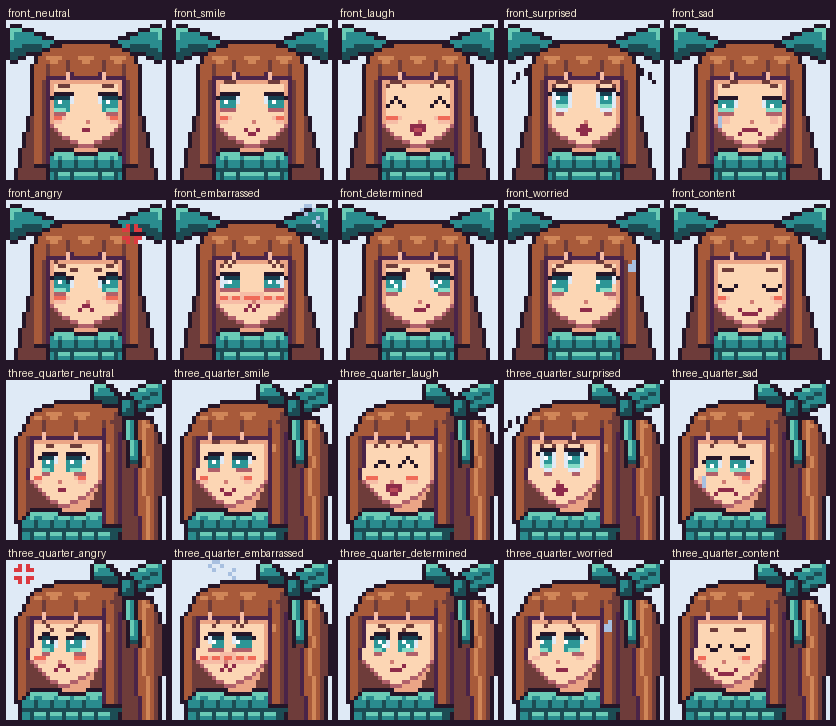
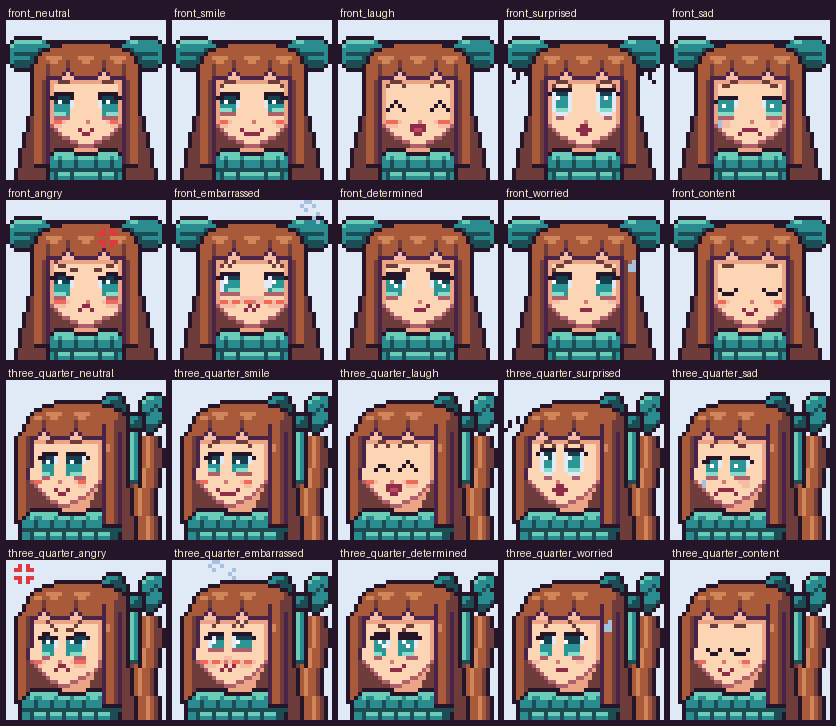
r13 head_small round 2 (bow behind head, C face at small scale)

diff --git a/docs/review/r13_head_small.md b/docs/review/r13_head_small.md
@@ -1,36 +1,31 @@
-# r13 Head at full-body scale (Pixel Artist 3)
+# r13 Head at full-body scale (Pixel Artist 3), round-1 fixes applied
 
-These are candidate C's face, hand-pixelled down to a ~27 px head on 40x40 canvases. They are meant to be pasted into the 96x160 full bodies.
+These are candidate C's face, hand-pixelled down to a ~27 px head on 40x40 canvases (the canvas size is unchanged). They are pasted into the 96x160 full bodies at x+28.
 
 **Files:** `art/hand/S4/head_small/head_{front,three_quarter,side,back}.pix`. Expressions are in `expr/{front,three_quarter}_{10 names}.pix`; each one `extends:` its base view and adds patches.
 **Review images:** `00_REVIEW/r13_anime_pixel/head_small/`: `heads_x4.png`, `head_*_x8.png`, `expressions_x4.png`, and `expressions_x1x2.png` (1x/2x on snow and on a dark background).
 
-## Landmark rows (the same in every view)
+## Landmark rows (the same in every view; the round-1 changes are marked)
 | row | feature |
 |---|---|
+| y4 | bow top (new) |
 | y5 | crown |
-| y14 | bang cut |
-| y15 | hair shadow |
-| y16 | brows |
-| y18-23 | eyes (top lash at y18) |
-| y24-25 | blush |
-| y25 | nose (side view: tip at y24) |
-| y27 | mouth |
+| y14 | bang cut, with 2 notched V's |
+| y15 | brows: 1 px `hair_1` (moved up 1 row) |
+| y18 | lash |
+| y19-23 | iris: i, i+catchlight, j, j, k |
+| y24 | lower lash |
+| y25-26 | blush |
+| y25 | nose |
+| y27-28 | mouth: 1-2-1 smile |
 | y31 | chin |
-| y32-33 | scarf top |
 
-The front view's centre line falls between x19 and x20. Hair, ponytail and scarf run off the bottom edge so the body art can continue them.
+## Bow (per review 1)
+- **Front:** the loops peek 6 px each side, behind the hair, at y4-12, with a fold line. The knot is hidden and the total width is 40 px.
+- **3/4:** a 5x5 knot sits on the back of the skull (x30-34, y8-12). The far loop shows over the crown and the near loop rises up and back. One tail hangs down, and the ponytail has an S-curve.
+- **Side:** a lobe at y8-18 behind a 5x5 knot (x29-33, y10-14). The ponytail arcs back.
+- **Back:** loops at y4-13 and a 5x5 knot (x17-21, y9-13) over the ponytail root. The dome shows above the knot. Two tails run off the bottom edge (they reach about y40 on the body).
 
-## Face construction
-- **Front:** eyes are 5x6 at x12-16 and x23-27, with a tare-me flick 1 px past the outer corner. One catchlight per eye, always on the upper-left.
-- **3/4 (facing left):**
-  - Far eye: 4x6 at x9-12, with 2 px of skin to the cheek contour.
-  - Gap between the eyes: x13-14 (2 px).
-  - Near eye: 5x6 at x15-19; its iris is shifted toward the gaze, so the sclera shows on the outer side.
-  - The cheek bulges 1 px under the far eye. The jaw runs 1-1-1-2-2 to a soft 3 px chin.
-- **Blush:** "xx" over "tt" dashes. **Mouth:** 2 px `crn_1`.
-
-## Notes for the other artists
-- The bow wings are limited by the 40 px canvas, so they come out about 1.4x the head width. The turnaround's bigger bow (2x, per the bible) should be the canonical size; widen the wings when you paste.
-- Bow tails stop at about y25. The ponytail continues below the canvas.
-- Every file has 21 colours or fewer. The only orphan pixels are catchlights, the nose and FX (tear, sweat, vein mark, steam).
+## Face notes
+- **3/4:** the far eye is 4 px wide (3 px iris) and the near eye is 5 px. There is a 2 px nose-bridge gap and 1-2 px of skin to the cheek contour. The jaw runs 1-1-1-2-2 to a soft chin.
+- Every file uses 21 colours or fewer. The only orphan pixels are catchlights, the nose and FX.
